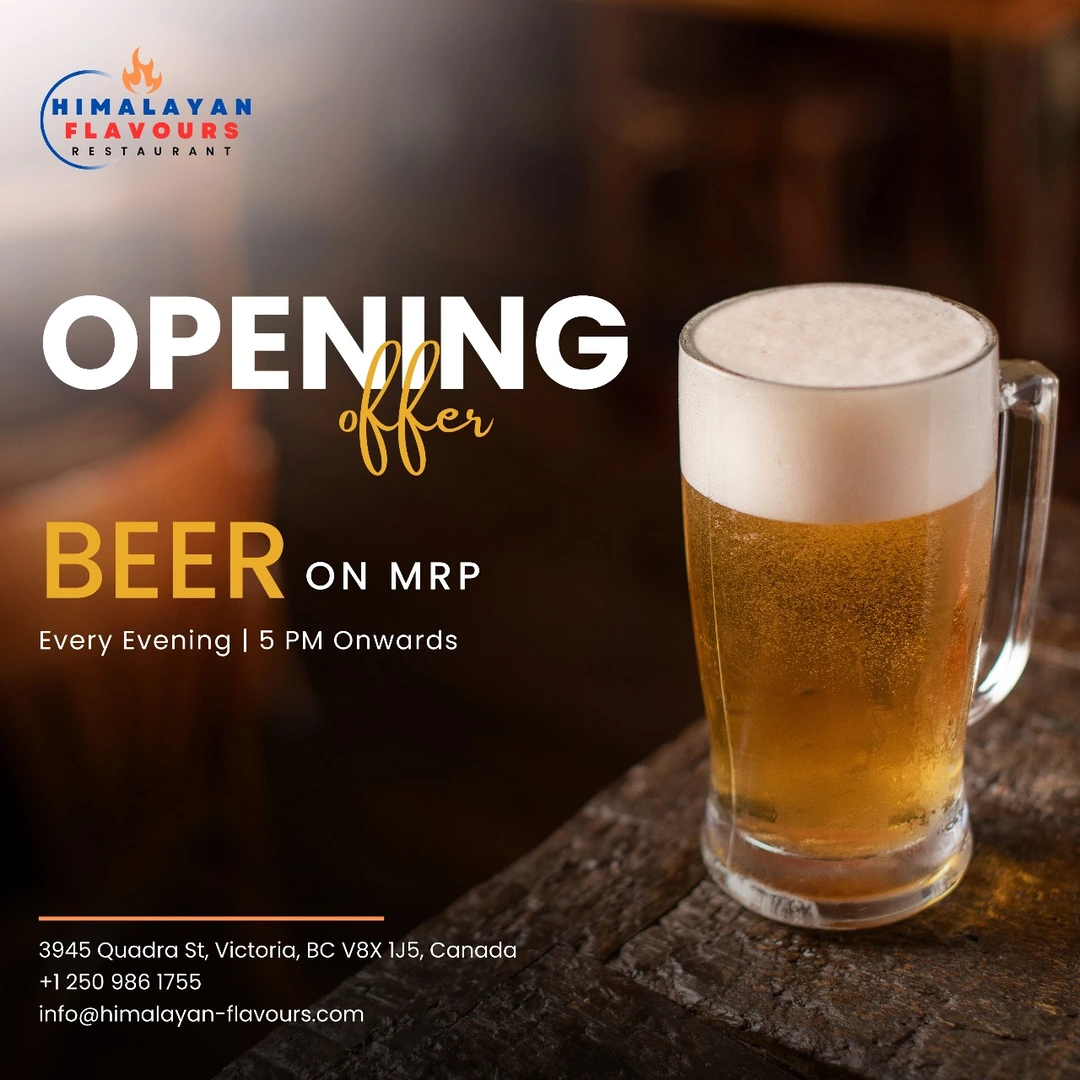
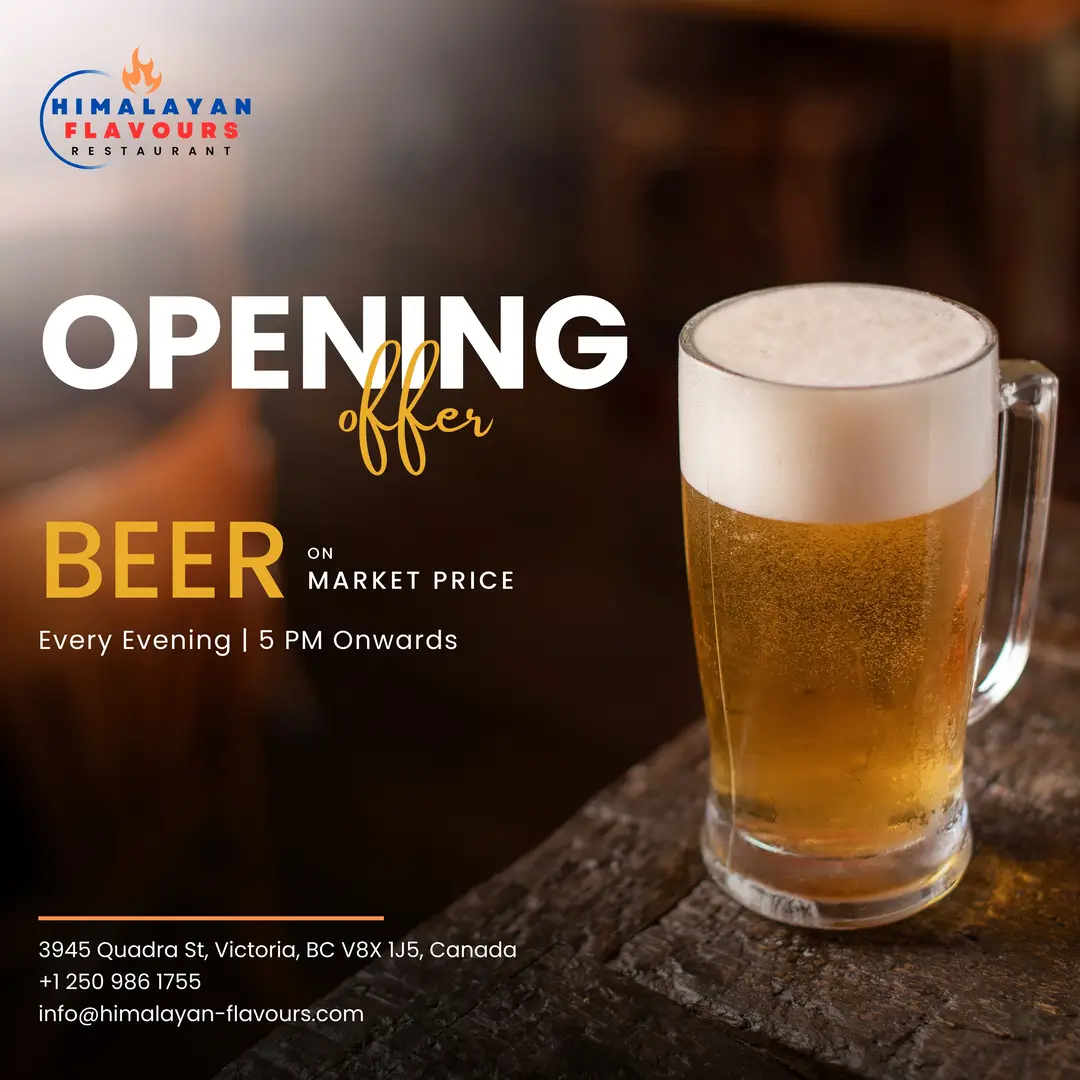
feat: Update promotions beer offer and update offer title

diff --git a/src/constants/data.js b/src/constants/data.js
@@ -5,19 +5,19 @@ import beerOffer from '../assets/images/offers/beer.webp';
 export const offersContent = [
   {
     id: 1,
-    offer: 'On Every Dish 10% Off',
+    offer: '',
     title: 'Free Dessert',
     description:
-      'On every nepalese cuisine dish, you will get 10% off on your total bill.',
+      'After every lunch or dinner, you will get a free dessert on your total bill.',
     image: dessertOffer,
     link: '/nepalese-cuisine',
   },
   {
     id: 2,
-    offer: 'On Every Dish 15% Off',
-    title: 'Beer on MRP',
+    offer: '',
+    title: 'Beer on Market Price',
     description:
-      'On every indian cuisine dish, you will get 15% off on your total bill.',
+      '5pm onwards every day, you will get beer on market price on your total bill.',
     image: beerOffer,
     link: '/indian-cuisine',
   },
